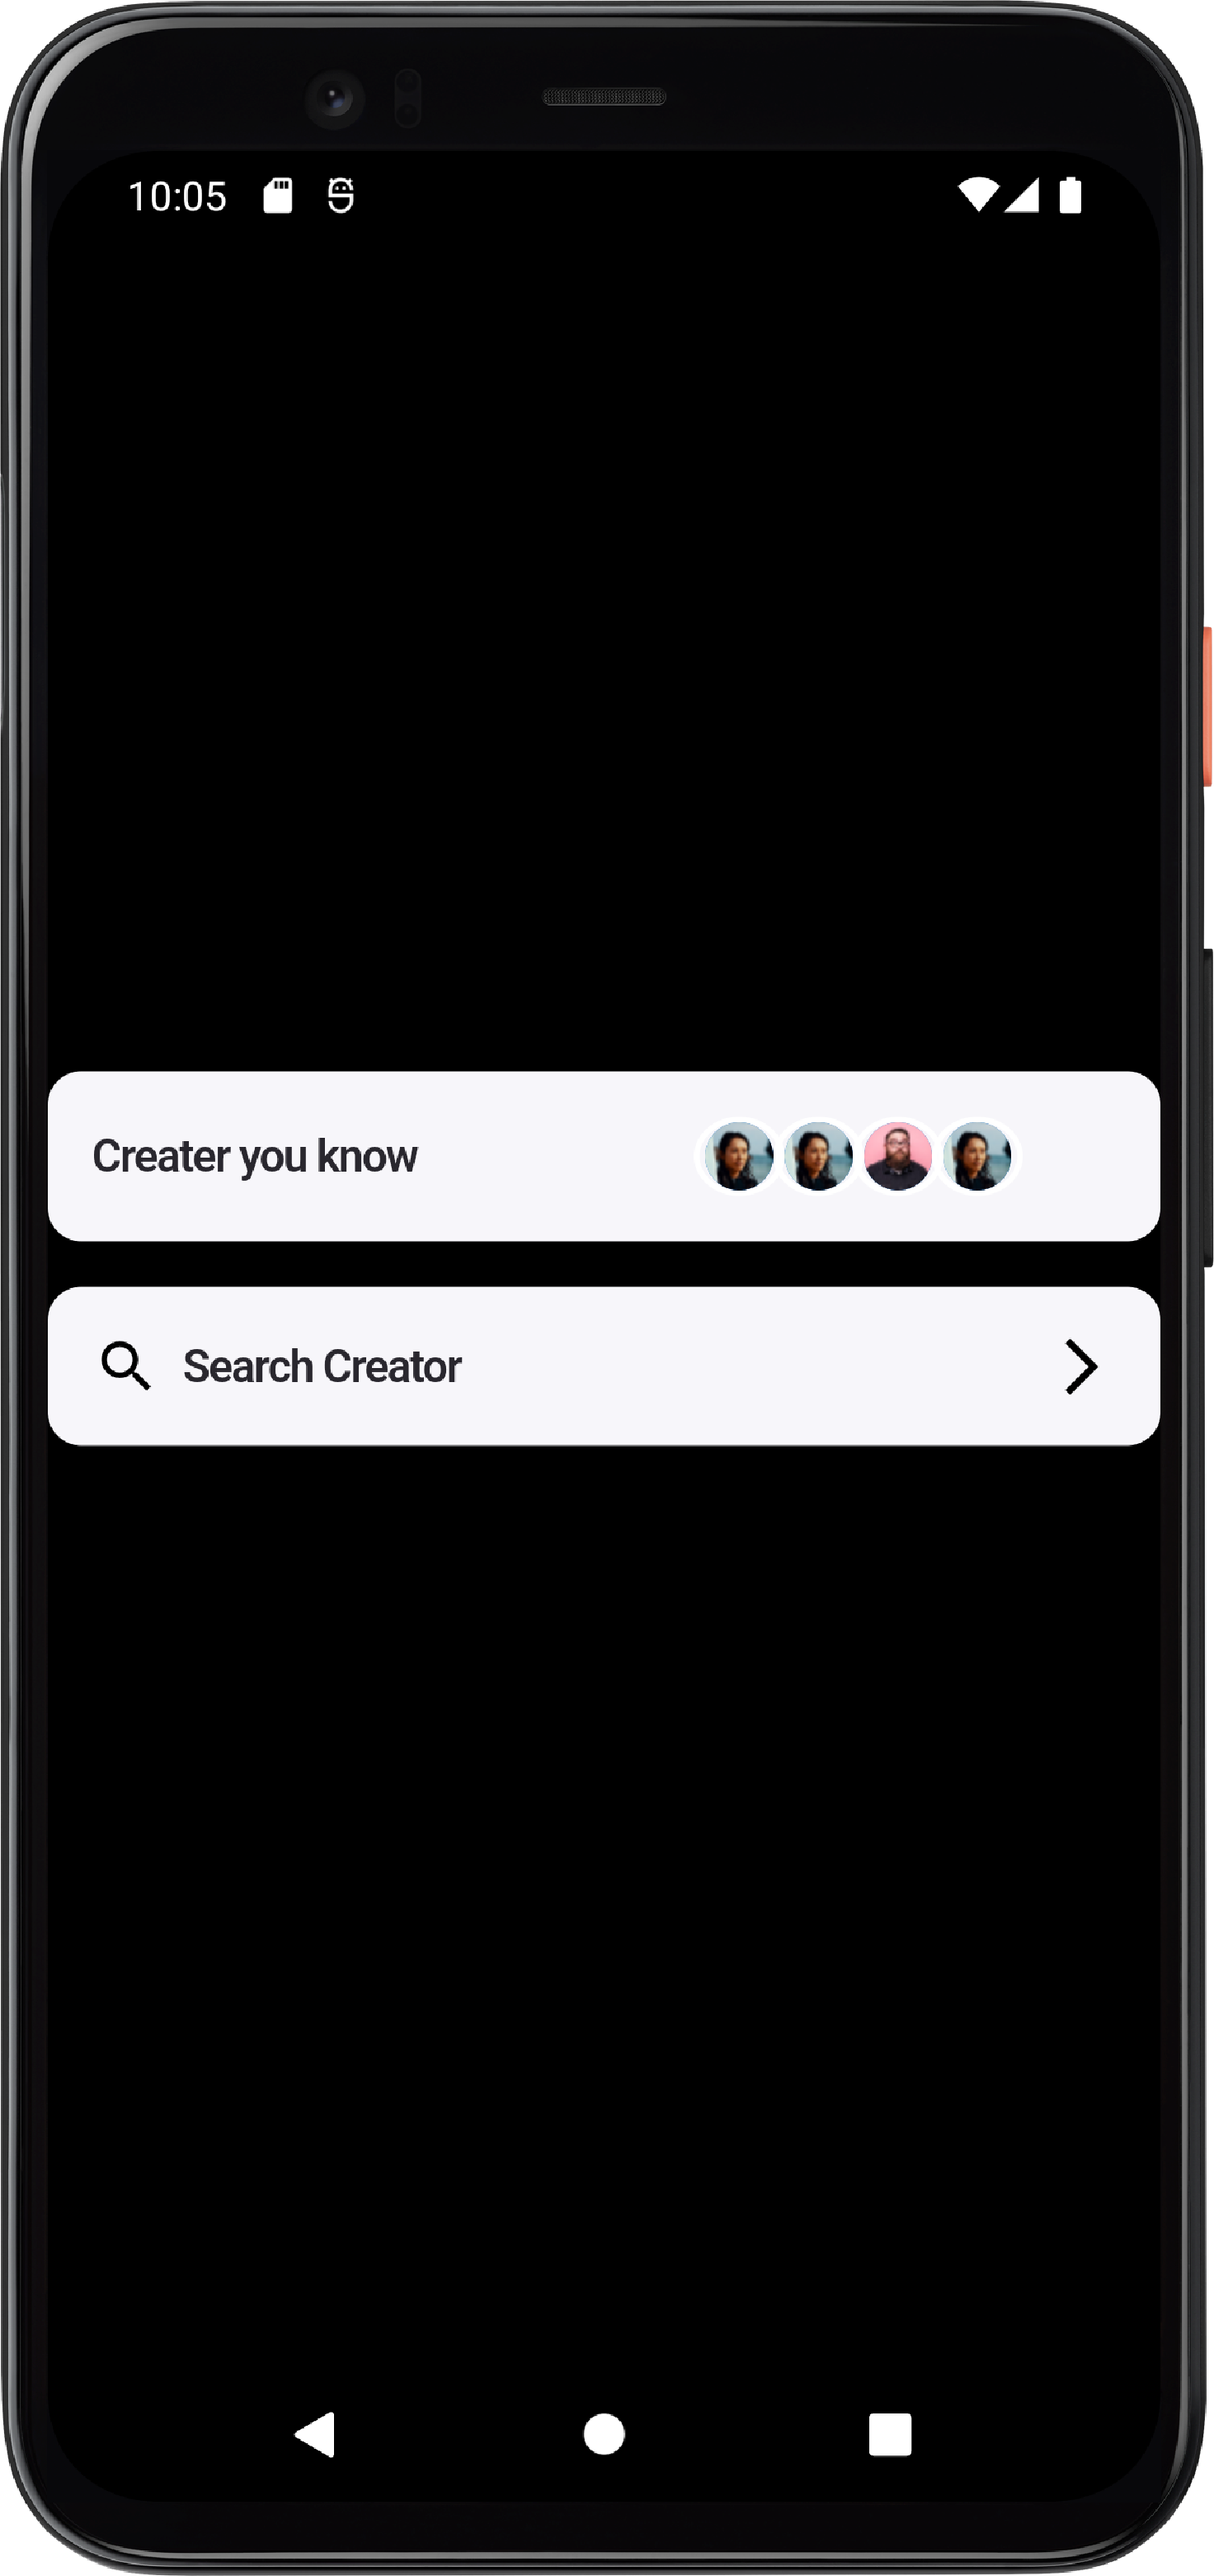
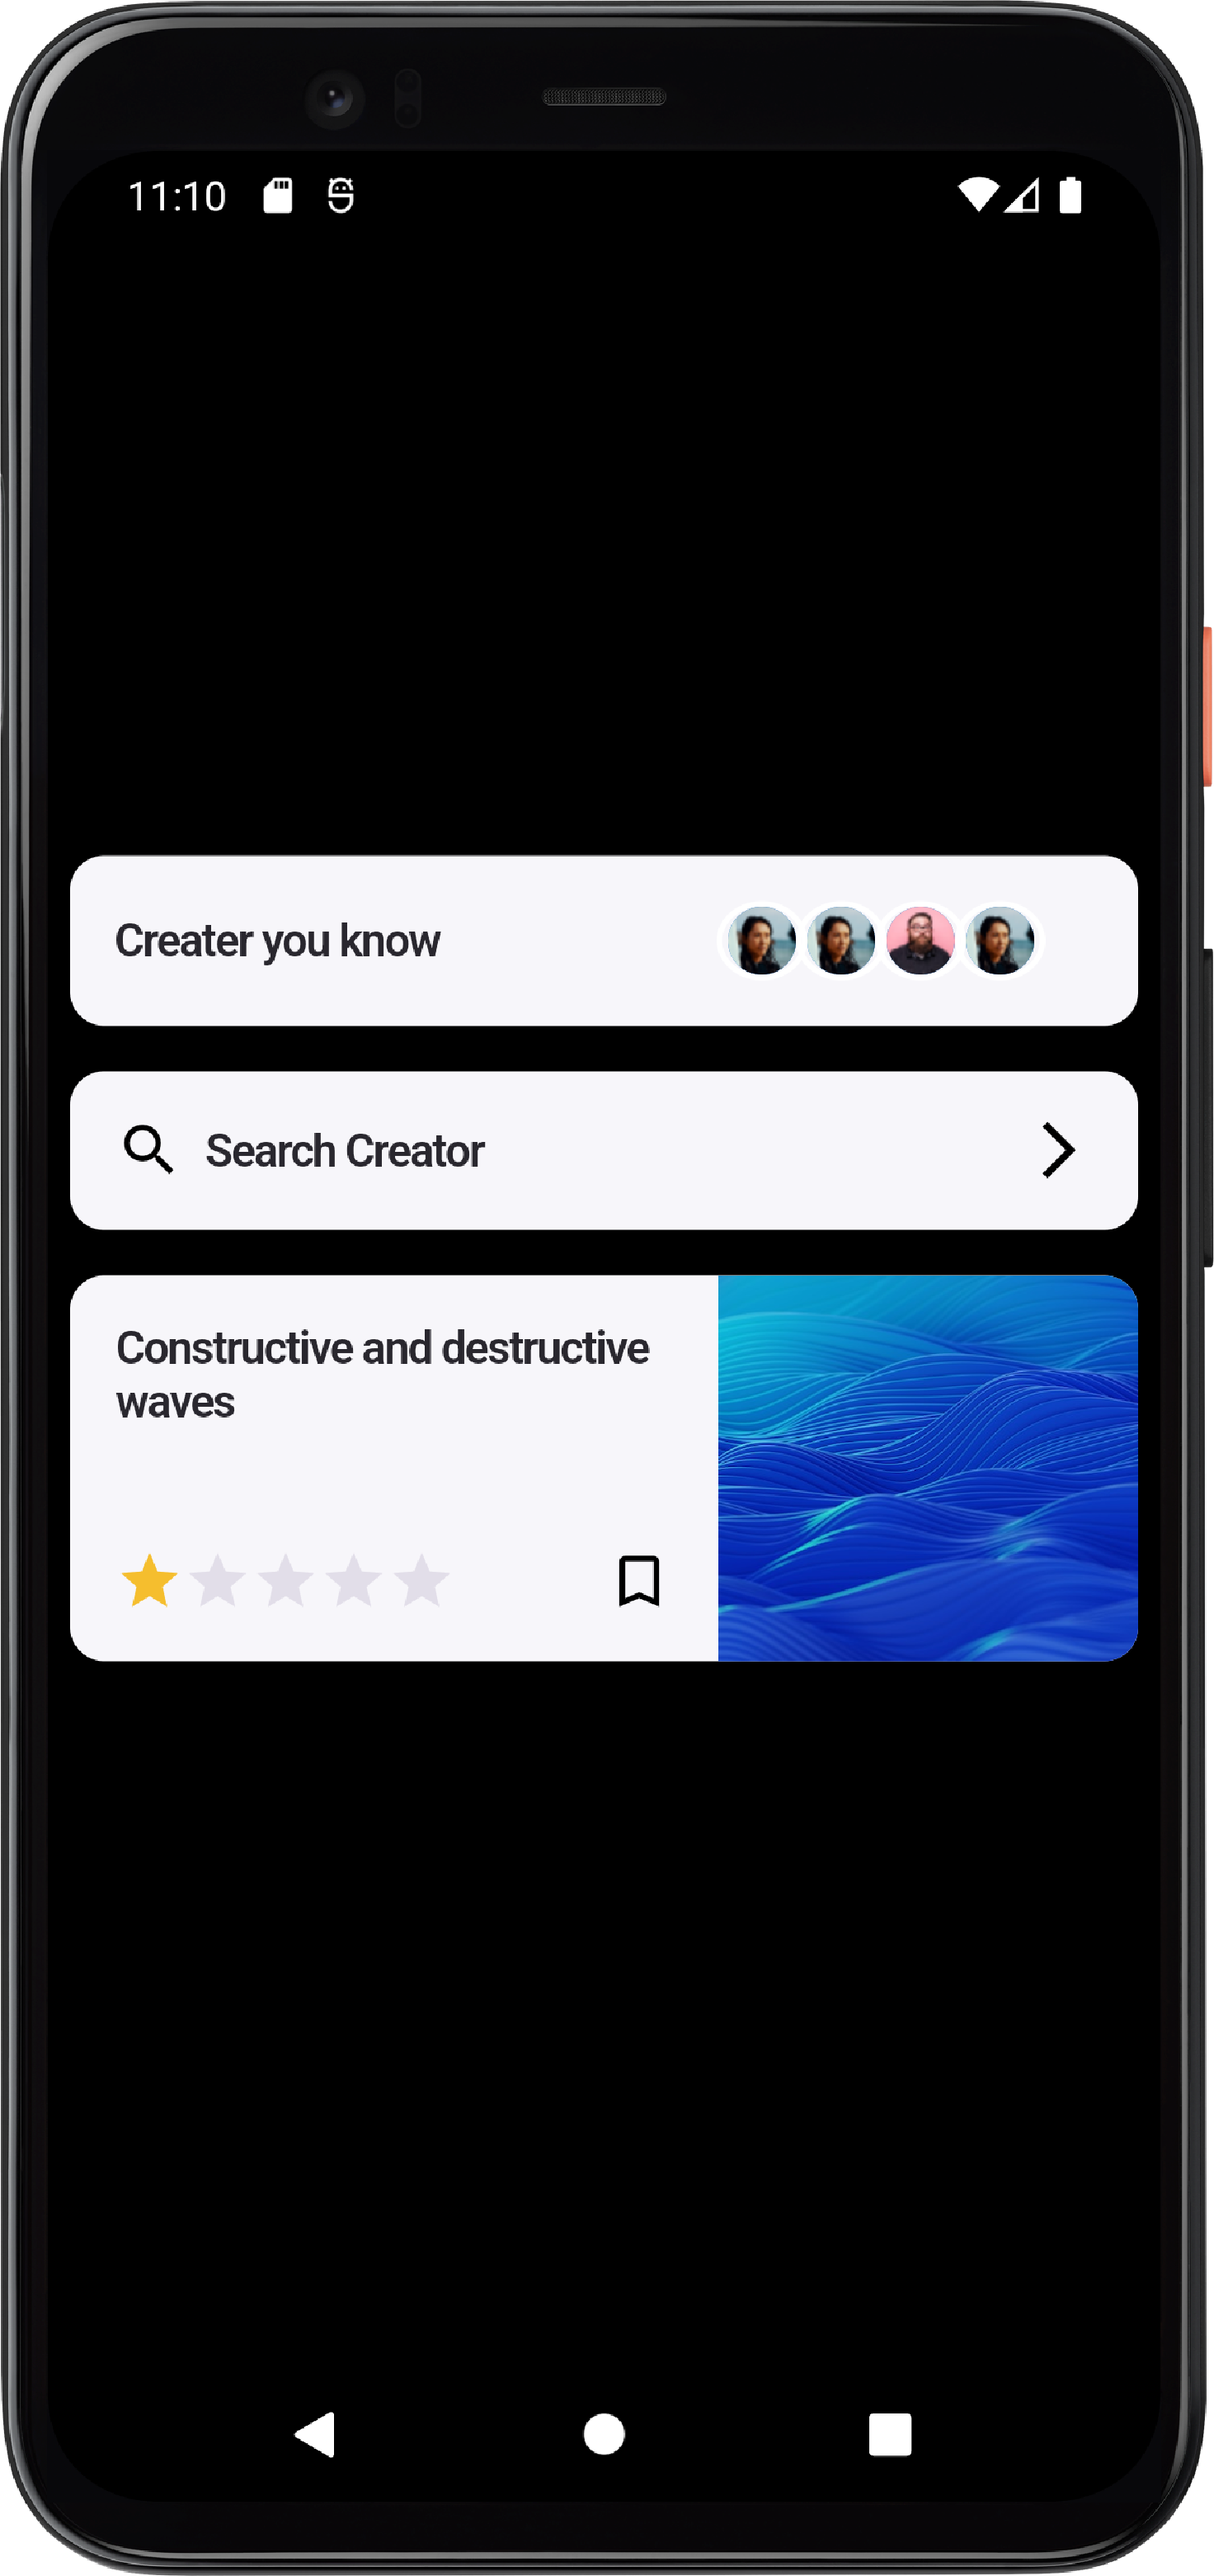
add Card3

Changed region(s): [[0.0312, 0.4039, 0.9688, 0.6525], [0.0312, 0.3107, 0.9375, 0.4039], [0.125, 0.0621, 0.1875, 0.0932]]

diff --git a/lib/Cards/card_3.dart b/lib/Cards/card_3.dart
@@ -1,0 +1,59 @@
+import 'package:flutter/material.dart';
+class Card3 extends StatelessWidget {
+  const Card3({Key? key}) : super(key: key);
+
+  @override
+  Widget build(BuildContext context) {
+    return Container(
+      clipBehavior: Clip.antiAlias,
+      height: 136,
+      width: double.infinity,
+      decoration: ShapeDecoration(
+          color:const Color(0xFFF7F6FA),
+       shape: RoundedRectangleBorder(
+         borderRadius: BorderRadius.circular(12)
+       )
+
+
+      ),
+      child: Row(
+        children: [
+          Expanded(child: Container(
+            padding:const EdgeInsets.all(16),
+            child:  Column(
+              mainAxisAlignment: MainAxisAlignment.spaceBetween,
+              children: [
+               const  Text("Constructive and destructive waves", style: TextStyle(
+                  color: Color(0xFF29272E),
+                  fontSize: 16,
+                  fontFamily: 'Inter',
+                  fontWeight: FontWeight.w600,
+                  height: 0,
+                  letterSpacing: -0.64,
+                ),),
+                Row(
+                  mainAxisAlignment: MainAxisAlignment.spaceBetween,
+                  children: [
+                    Row(
+                      children:List.generate(5, (index) => Icon(Icons.star, color: index==0?const Color(0xFFF5BE2E):const Color(0xFFE2DEE9),)),
+                    ),
+                    const Icon(Icons.bookmark_border, color: Colors.black, size: 24,)
+                  ],
+                )
+              ],
+            ),
+          )),
+          Container(
+            height: 136,
+            width: 148,
+            decoration: const BoxDecoration(
+              image: DecorationImage(image: NetworkImage("https://s3-alpha-sig.figma.com/img/234b/2a75/407c63c81bbefe9dce7316920415ce51?Expires=1704067200&Signature=Tz8~chAPIx1vszCFzqWtOb8vWpk~gACjJi-KQd-nSOZIsSc--EfxT6av7UR849GzYT77XjPv72M1pgo8bgsK9AOro1LUMnqI7MraqlZ4q-X8FE~QUU67fkQAjZu1ep5uYkleMs42dgQipwVXvB~agOqzQ3d3QsYCDOIkevwD~mylZ1HRkIcaTt7NS~Xk-cx3w5t23pMmsfkRMZI498bVouZc9B33u~9X3-r9v8CIENBOwGD79If8YyrJJexFNqIOls6BFdmrhtklJd-jftkwOkUEws-ItsF10gfb-kr4qhXWdP-pkrKxKDqci6TESs~sl6oB7mbCM8hXPASBDZKwTA__&Key-Pair-Id=APKAQ4GOSFWCVNEHN3O4"), fit: BoxFit.fill
+              )
+            ),
+
+          )
+        ],
+      ),
+    );
+  }
+}

diff --git a/lib/Screens/screen.dart b/lib/Screens/screen.dart
@@ -1,6 +1,7 @@
 import 'package:flutter/material.dart';
 import 'package:flutter_ui_card_collections/Cards/card_1.dart';
 import 'package:flutter_ui_card_collections/Cards/card_2.dart';
+import 'package:flutter_ui_card_collections/Cards/card_3.dart';
 import 'package:gap/gap.dart';
 
 class Screen extends StatelessWidget {
@@ -10,13 +11,18 @@ class Screen extends StatelessWidget {
   Widget build(BuildContext context) {
     return const Scaffold(
       backgroundColor: Colors.black,
-      body: Column(
-        mainAxisAlignment: MainAxisAlignment.center,
-        children: [
-          Card1(),
-          Gap(16),
-          Card2(),
-        ],
+      body: Padding(
+        padding: EdgeInsets.all(8.0),
+        child: Column(
+          mainAxisAlignment: MainAxisAlignment.center,
+          children: [
+            Card1(),
+            Gap(16),
+            Card2(),
+            Gap(16),
+            Card3(),
+          ],
+        ),
       ),
     );
   }
